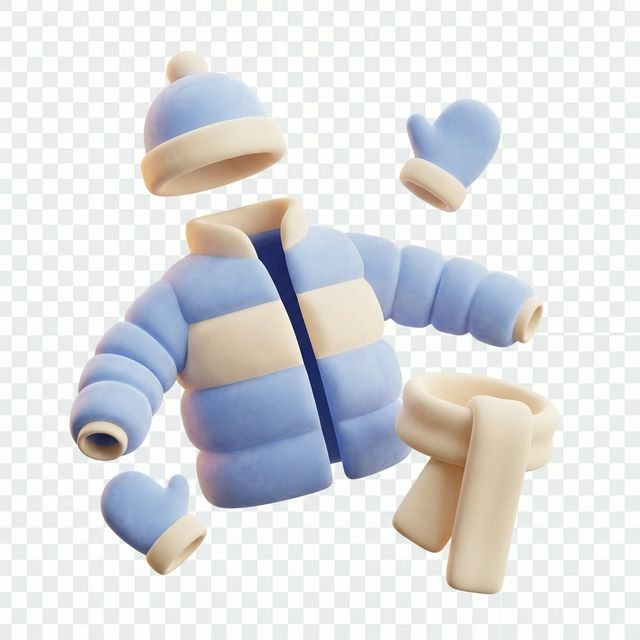
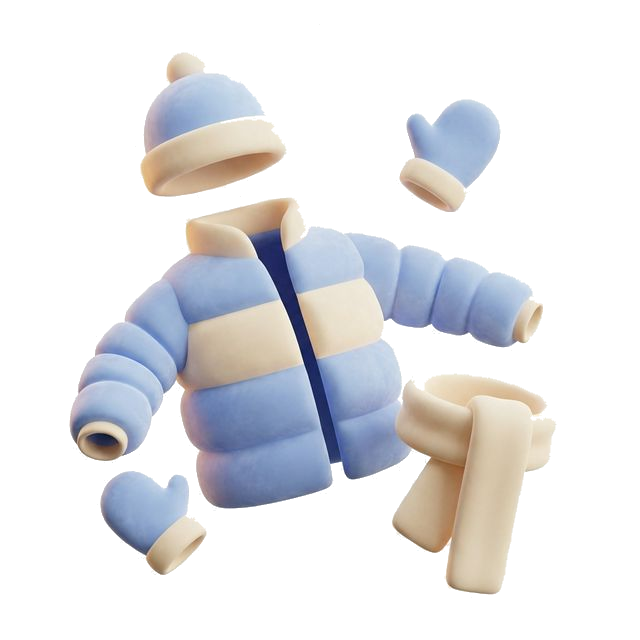
style: update clothing assets to cute 3D pastel style with transparent background
* Replaced all clothing PNGs (hot, mild, chilly, cool, warm, very-cold, cold, freezing) with a unified cute, simple 3D illustration style featuring pastel colors.
* Fully removed backgrounds and applied alpha transparency to all images for seamless UI integration.
* Added `scripts/remove_bg_v4.py` to handle complex background removal (checkerboard patterns, specific colors) with fine-tuned edge tolerance and anti-aliasing.

diff --git a/scripts/remove_bg_v4.py b/scripts/remove_bg_v4.py
@@ -1,0 +1,173 @@
+#!/usr/bin/env python3
+"""배경 투명화 v4 - 체커보드 패턴(두 색상) + 흰색 배경 처리"""
+
+import os
+import numpy as np
+from PIL import Image
+from collections import deque
+
+CLOTHES_DIR = os.path.join(os.path.dirname(__file__), "..", "assets", "clothes")
+
+
+def flood_fill_multiple_bg(img, bg_colors, tolerance):
+    """
+    여러 배경색에 대해 BFS flood fill 투명화.
+    bg_colors: list of (R,G,B) tuples
+    """
+    img = img.convert("RGBA")
+    data = np.array(img)
+    h, w = data.shape[:2]
+    
+    # 이미 투명한 모서리면 스킵
+    corners = [(0,0), (0,w-1), (h-1,0), (h-1,w-1)]
+    if all(data[y,x,3] < 10 for y,x in corners):
+        print(f"  → 이미 완전 투명 배경, 스킵")
+        return img
+    
+    bg_arrays = [np.array(c, dtype=np.float64) for c in bg_colors]
+    
+    def is_bg(pixel):
+        """여러 배경색 중 하나와 매칭되는지 확인"""
+        p = pixel[:3].astype(np.float64)
+        return any(np.sqrt(np.sum((p - bg) ** 2)) <= tolerance for bg in bg_arrays)
+    
+    def is_bg_start(pixel):
+        """시작점은 관대하게"""
+        p = pixel[:3].astype(np.float64)
+        return any(np.sqrt(np.sum((p - bg) ** 2)) <= tolerance * 1.5 for bg in bg_arrays)
+    
+    def min_bg_diff(pixel):
+        """모든 배경색과의 최소 거리 반환"""
+        p = pixel[:3].astype(np.float64)
+        return min(np.sqrt(np.sum((p - bg) ** 2)) for bg in bg_arrays)
+
+    visited = np.zeros((h, w), dtype=bool)
+    to_transparent = np.zeros((h, w), dtype=bool)
+    
+    queue = deque()
+    
+    # 네 변의 모든 픽셀에서 시작
+    for x in range(w):
+        for y in [0, h-1]:
+            if not visited[y, x] and is_bg_start(data[y, x]):
+                visited[y, x] = True
+                queue.append((y, x))
+                to_transparent[y, x] = True
+    for y in range(h):
+        for x in [0, w-1]:
+            if not visited[y, x] and is_bg_start(data[y, x]):
+                visited[y, x] = True
+                queue.append((y, x))
+                to_transparent[y, x] = True
+    
+    directions = [(-1,0), (1,0), (0,-1), (0,1)]
+    while queue:
+        cy, cx = queue.popleft()
+        for dy, dx in directions:
+            ny, nx = cy + dy, cx + dx
+            if 0 <= ny < h and 0 <= nx < w and not visited[ny, nx]:
+                visited[ny, nx] = True
+                if is_bg(data[ny, nx]):
+                    to_transparent[ny, nx] = True
+                    queue.append((ny, nx))
+    
+    count = np.sum(to_transparent)
+    total = h * w
+    print(f"  → 투명화: {count}/{total} ({100*count/total:.1f}%)")
+    
+    # 경계 anti-aliasing
+    padded = np.pad(to_transparent, 1, mode='constant', constant_values=False)
+    dilated = (padded[:-2, 1:-1] | padded[2:, 1:-1] |
+               padded[1:-1, :-2] | padded[1:-1, 2:] |
+               to_transparent)
+    border = dilated & ~to_transparent
+    
+    border_ys, border_xs = np.where(border)
+    if len(border_ys) > 0:
+        for i in range(len(border_ys)):
+            y, x = border_ys[i], border_xs[i]
+            d = min_bg_diff(data[y, x])
+            alpha = min(int(255 * d / (tolerance * 2.5)), 255)
+            data[y, x, 3] = alpha
+    
+    data[to_transparent, 3] = 0
+    return Image.fromarray(data)
+
+
+# 이미지별 상세 설정
+# 체커보드 이미지: 8x8 블록 교대의 두 색상
+# 흰색 배경 이미지: 단일 배경색
+IMAGE_CONFIG = {
+    "warm.png": {
+        "bg_colors": [(255,255,255), (250,250,250), (245,245,245), (240,240,240)],
+        "tolerance": 50
+    },
+    "cool.png": {
+        "bg_colors": [(255,255,255), (250,250,250), (245,245,245), (240,240,240)],
+        "tolerance": 35
+    },
+    "chilly.png": {
+        "bg_colors": [(255,255,255), (250,250,250), (245,245,245), (240,240,240)],
+        "tolerance": 30
+    },
+    "very-cold.png": {
+        "bg_colors": [(255,255,255), (250,250,250), (245,245,245), (240,240,240)],
+        "tolerance": 40
+    },
+    "cold.png": {
+        "bg_colors": [(248,250,247), (255,255,255), (245,245,243)],
+        "tolerance": 30
+    },
+    "freezing.png": {
+        "bg_colors": [(238,240,241), (255,255,255), (245,245,243)],
+        "tolerance": 22
+    },
+    "hot.png": {
+        "bg_colors": [(255,255,255), (250,250,250), (245,245,245), (240,240,240)],
+        "tolerance": 60
+    },
+    "mild.png": {
+        "bg_colors": [(255,255,255), (250,250,250), (245,245,245), (240,240,240)],
+        "tolerance": 60
+    },
+}
+
+
+def main():
+    print("=== 의류 이미지 배경 투명화 v4 ===\n")
+    
+    png_files = sorted([f for f in os.listdir(CLOTHES_DIR) if f.endswith('.png')])
+    
+    for filename in png_files:
+        filepath = os.path.join(CLOTHES_DIR, filename)
+        config = IMAGE_CONFIG.get(filename, {
+            "bg_colors": [(255,255,255)],
+            "tolerance": 25
+        })
+        
+        print(f"처리 중: {filename}")
+        print(f"  배경색: {config['bg_colors']}")
+        print(f"  Tolerance: {config['tolerance']}")
+        
+        try:
+            img = Image.open(filepath)
+            print(f"  크기: {img.size}, 모드: {img.mode}")
+            
+            result = flood_fill_multiple_bg(
+                img, config["bg_colors"], config["tolerance"]
+            )
+            result.save(filepath, "PNG", optimize=True)
+            
+            new_size = os.path.getsize(filepath)
+            print(f"  저장: {new_size:,} bytes\n")
+            
+        except Exception as e:
+            print(f"  오류: {e}")
+            import traceback
+            traceback.print_exc()
+            print()
+    
+    print("=== 완료 ===")
+
+if __name__ == "__main__":
+    main()
